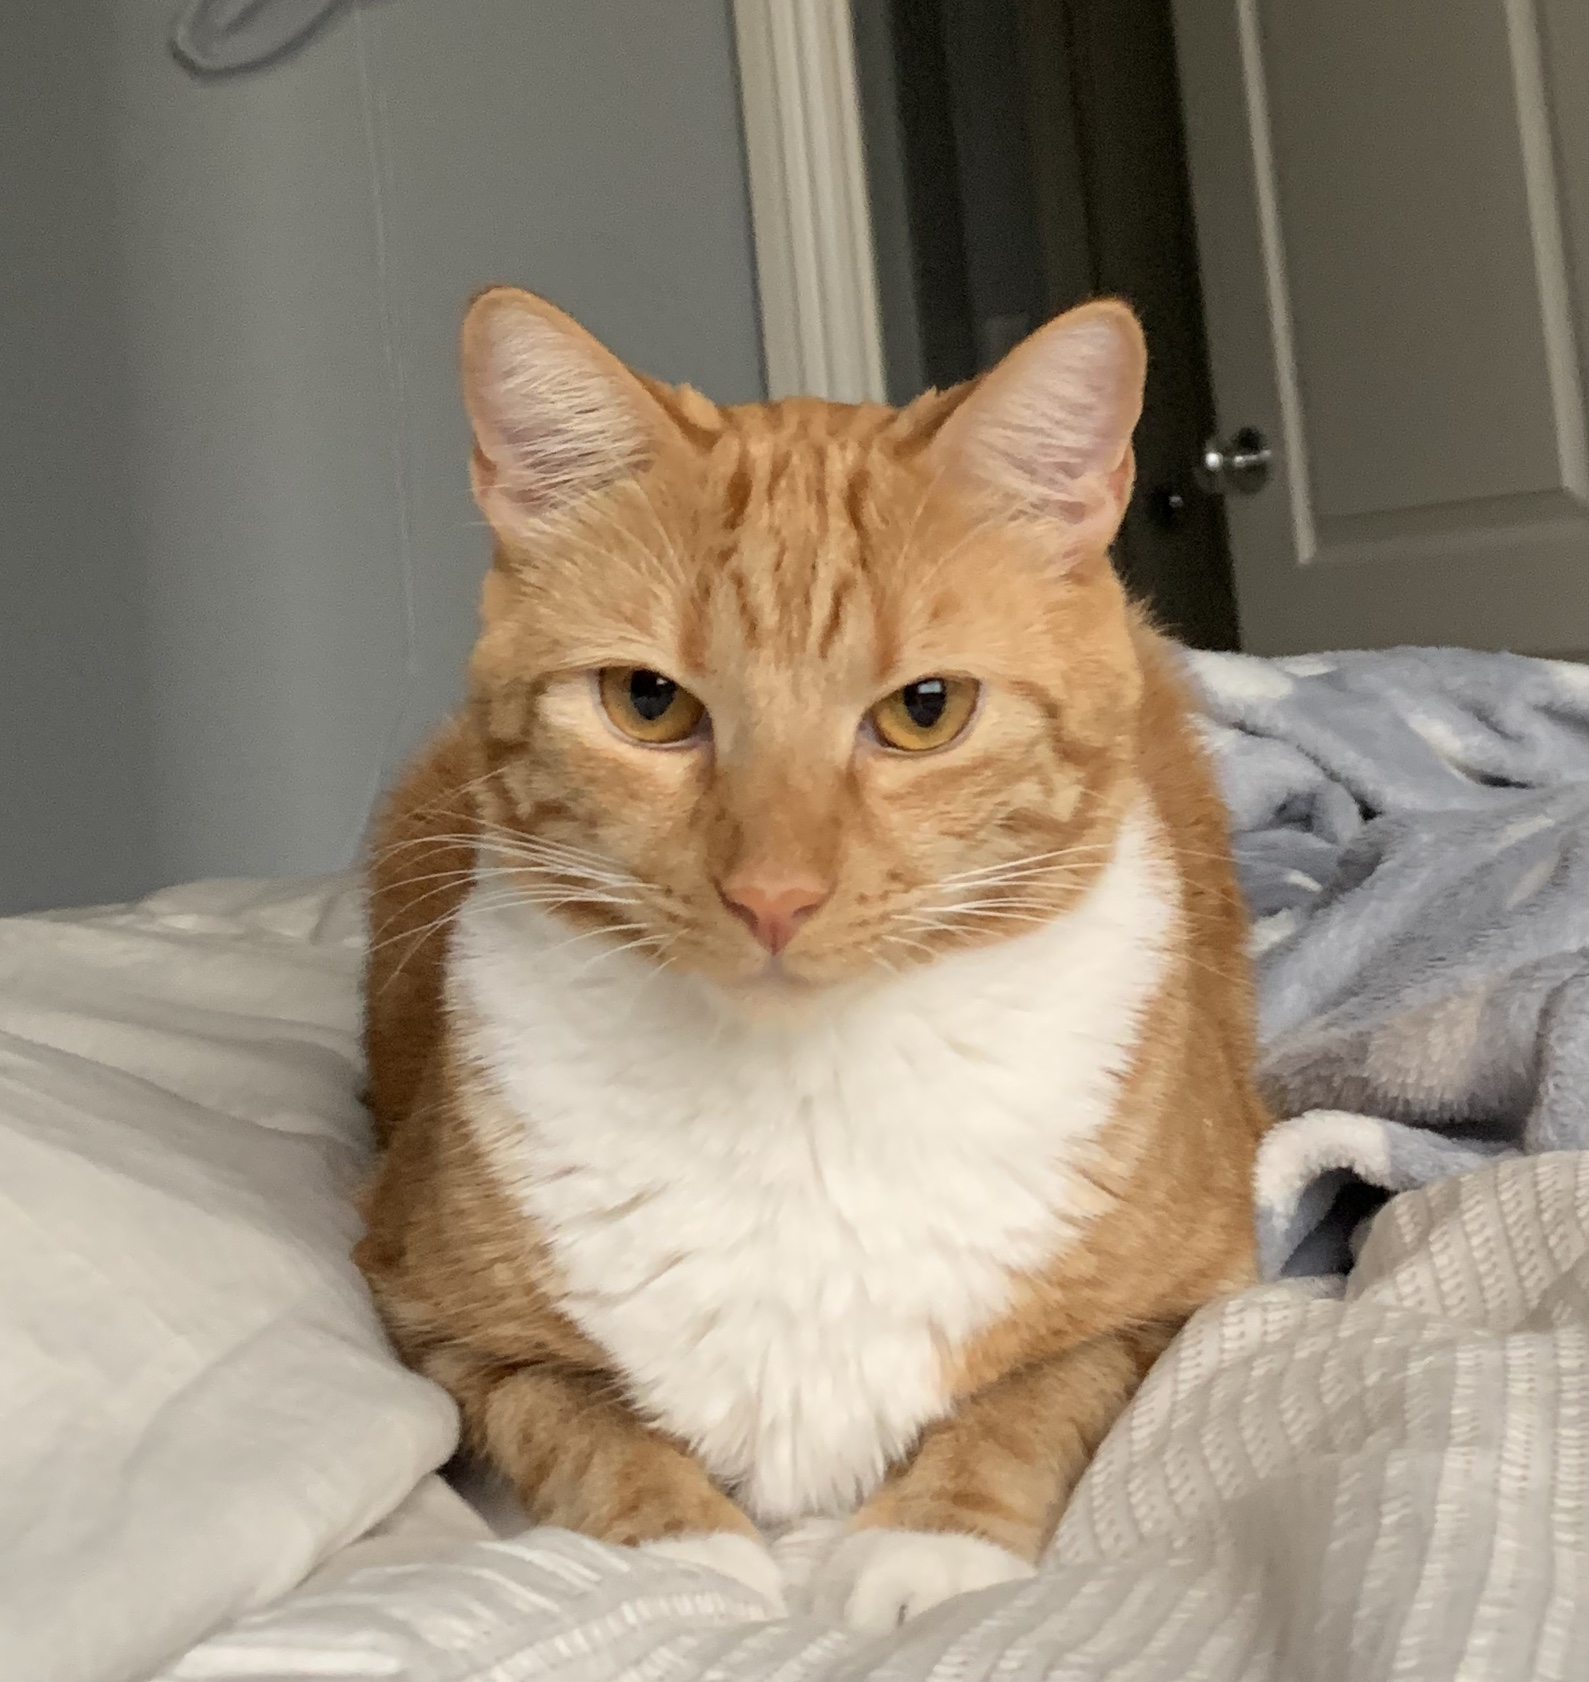
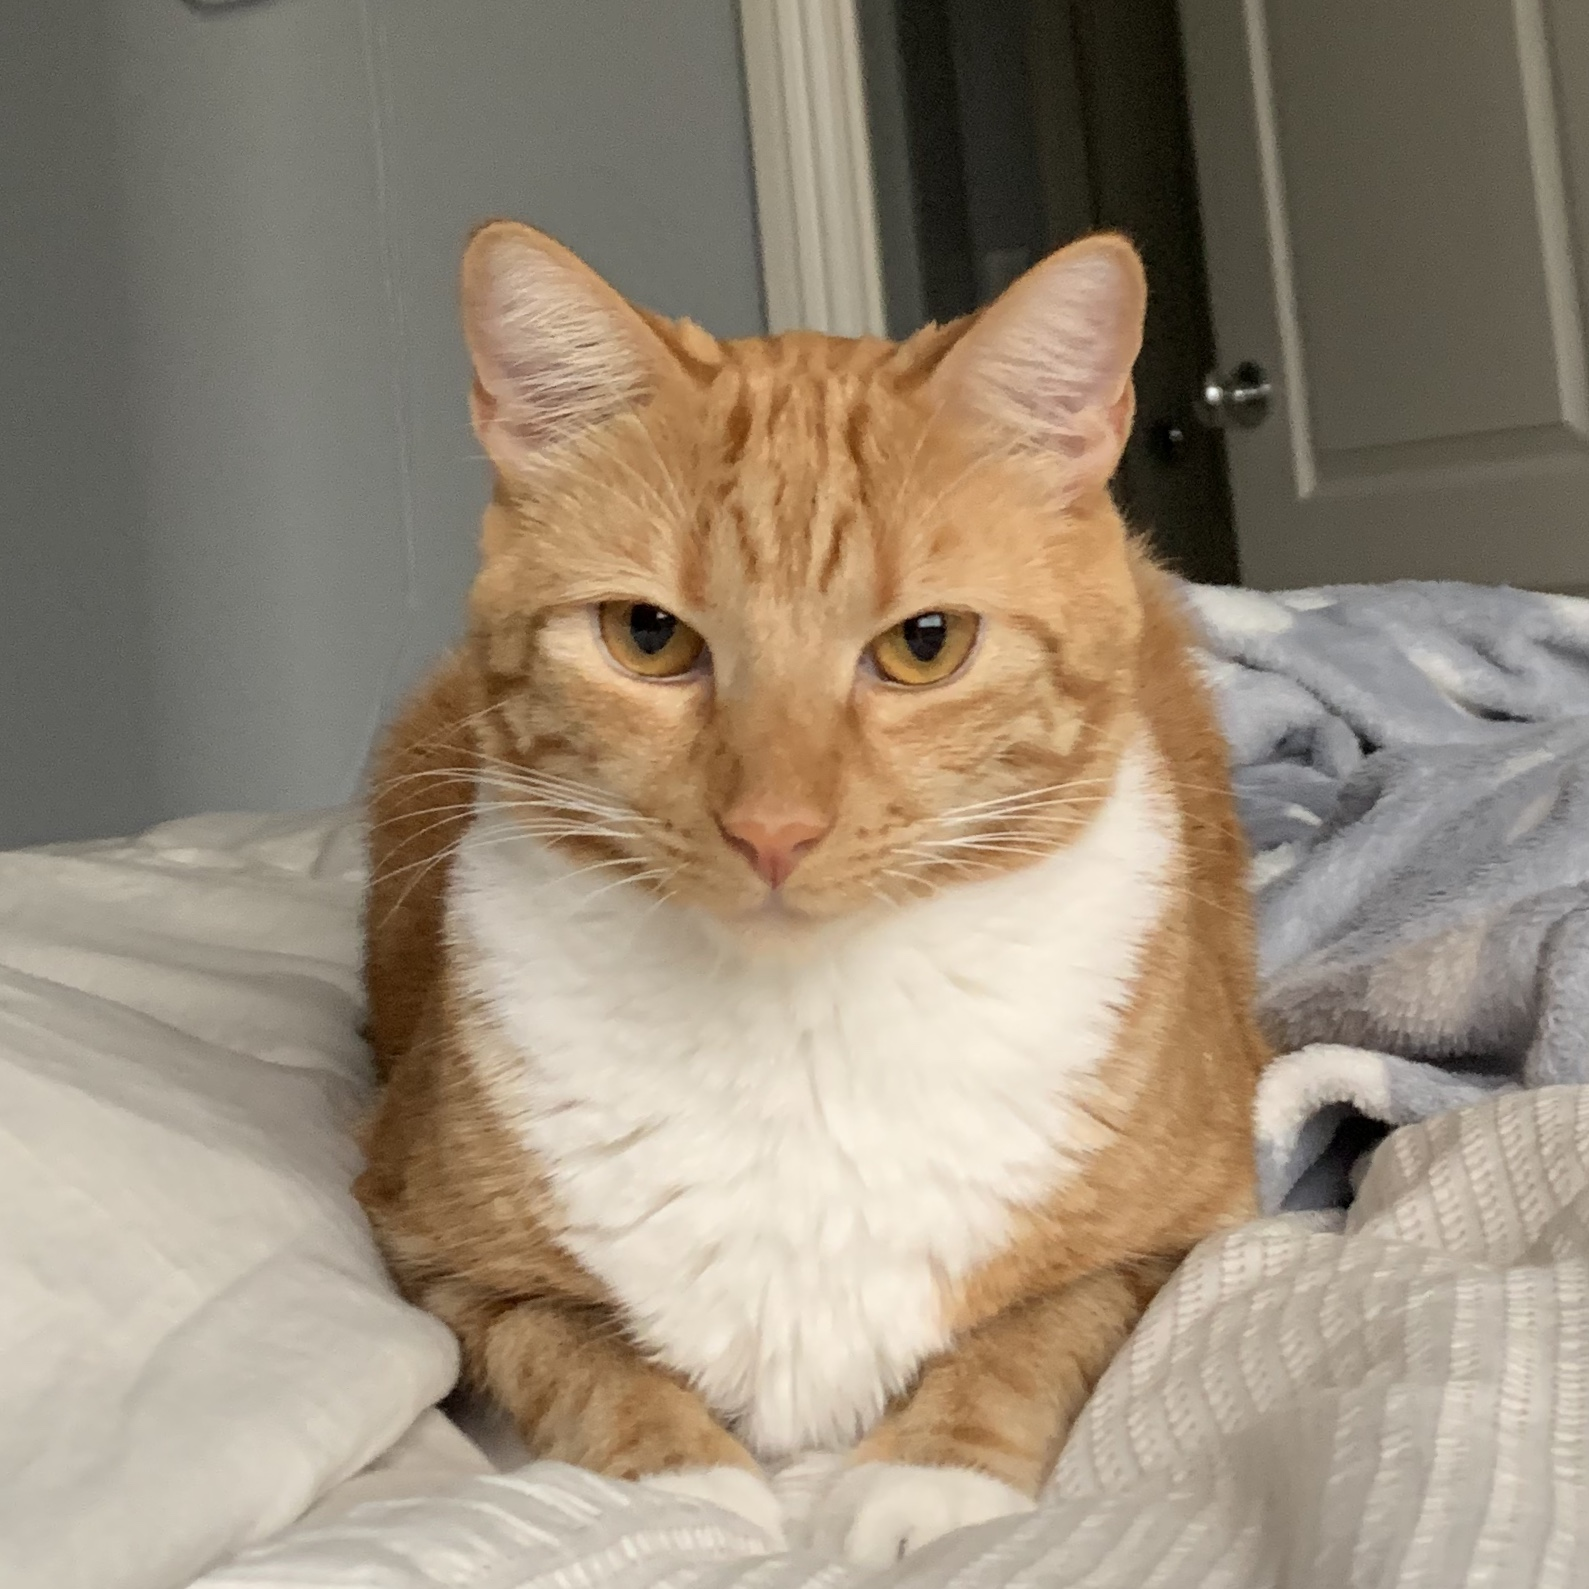
added more images to my individual greyscale lab

diff --git a/templates/individual/alice.html b/templates/individual/alice.html
@@ -18,8 +18,7 @@
 
 <script type = "text/javascript">
     function generateRandomColor() {
-        var randomColor = '#' + Math.floor(Math.random() * 16777215).toString(16);
-       /document.body.style.backgroundColor = randomColor;/
+        var randomColor = '#' + Math.floor(Math.random() * 16777216).toString(16);
         document.getElementById('randcolor').innerHTML = randomColor;
         var c = document.getElementById("myCanvas");
         var ctx = c.getContext("2d");
@@ -43,19 +42,41 @@
 
         if (imageType == 0) {
             document.getElementById("myImg").style.filter= "grayscale(100%)";
+            document.getElementById("myImg2").style.filter= "grayscale(100%)";
+            document.getElementById("myImg3").style.filter= "grayscale(100%)";
+            document.getElementById("myImg4").style.filter= "grayscale(100%)";
+            document.getElementById("myImg5").style.filter= "grayscale(100%)";
             imageType = 1;
         } else {
             document.getElementById("myImg").style.filter= "grayscale(0%)";
+            document.getElementById("myImg2").style.filter= "grayscale(0%)";
+            document.getElementById("myImg3").style.filter= "grayscale(0%)";
+            document.getElementById("myImg4").style.filter= "grayscale(0%)";
+            document.getElementById("myImg5").style.filter= "grayscale(0%)";
             imageType = 0;
         }
     }
 </script>
 
 <button onclick="toggle()">Toggle Colors</button>
-<img src="static/assets/aliceCAT.jpg" id="myImg"  alt="Alice's cat" width="200" height="211" />
+<img src="static/assets/aliceCAT.jpg" id="myImg"  alt="Alice's cat Luca" width="200" height="200" />
+<img src="static/assets/aliceCAT2.jpg" id="myImg2"  alt="Alice's cat Apollo" width="200" height="200" />
+<img src="static/assets/aliceCAT3.jpg" id="myImg3"  alt="Alice's cat Apollo" width="200" height="200" />
+<img src="static/assets/aliceCAT4.jpg" id="myImg4"  alt="Alice's cats, Luca and Apollo" width="200" height="200" />
+<img src="static/assets/aliceCAT5.jpg" id="myImg5"  alt="Alice's cats Luca" width="200" height="200" />
 <br />
 <br>
 <br>
 <br>
+<p>________________________________________________________________________________________________________</p>
+<br>
+<h3>RGB:</h3>
+<br>
+<body>
+<form>
+    <input type="range" name="amountRange" min="0" max="100" value="0" oninput="this.form.amountInput.value=this.value" />
+    <input type="number" name="amountInput" min="0" max="100" value="0" oninput="this.form.amountRange.value=this.value" />
+</form>
+</body>
 
 {% endblock %}
